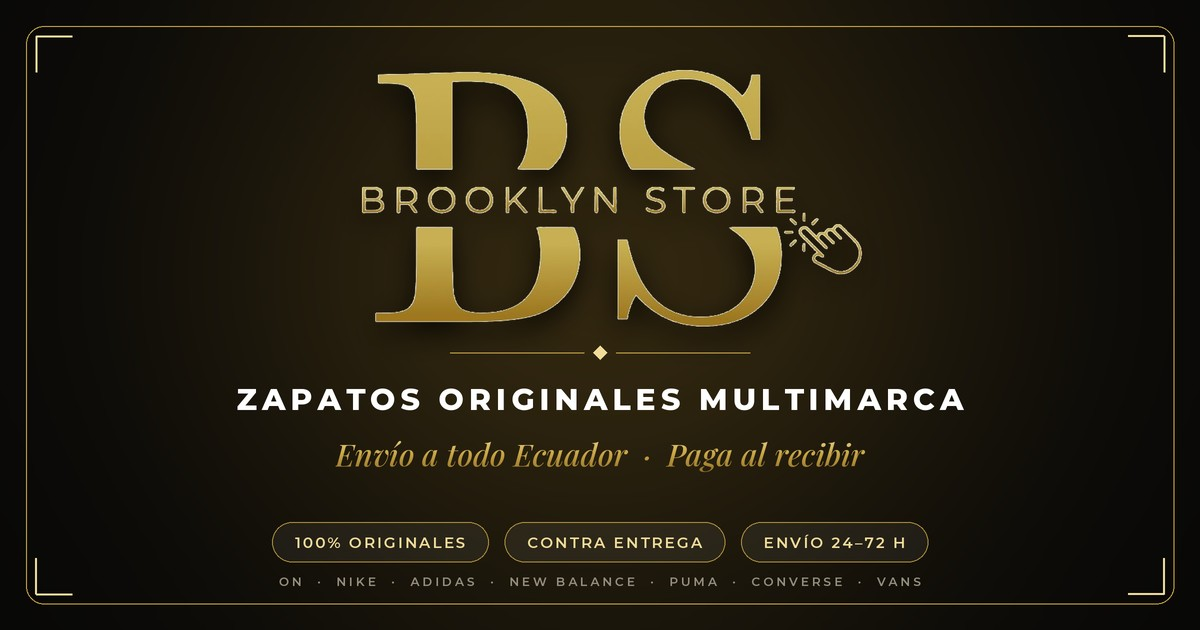
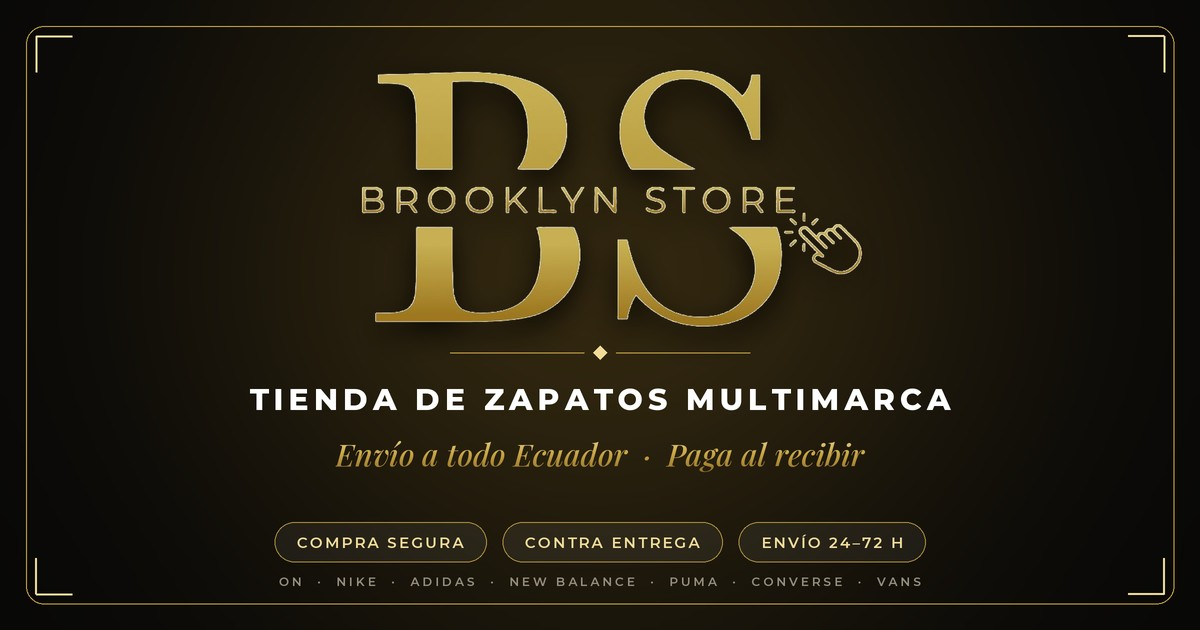
Quitar las menciones de "100% originales" en toda la tienda
Se reemplazan por "Compra segura", "Calidad garantizada" y "Garantía
Brooklyn": barra de anuncios, portada, barra de confianza, beneficios,
preguntas frecuentes, testimonios, ficha de producto, checkout, menú,
pie de página, metadatos para compartir y la imagen de vista previa.

Claude-Session: https://claude.ai/code/session_017ajxQwJ77UtqQ79Keca92T

Changed region(s): [[0.185, 0.6032, 0.8017, 0.6635], [0.2158, 0.8444, 0.7708, 0.8746]]

diff --git a/src/lib/demo-products.ts b/src/lib/demo-products.ts
@@ -17,7 +17,7 @@ const BASE = Date.UTC(2026, 8, 1);
 
 const REVIEWS = {
   sneaker: [
-    { name: 'Andrés M.', city: 'Quito', rating: 5, text: 'Originales y con su caja. Llegaron en 2 días, full recomendados.' },
+    { name: 'Andrés M.', city: 'Quito', rating: 5, text: 'Llegaron con su caja en 2 días, full recomendados.' },
     { name: 'Carla R.', city: 'Guayaquil', rating: 5, text: 'La talla exacta con la guía. Súper cómodos, de una vuelvo a comprar.' },
     { name: 'Jorge P.', city: 'Ambato', rating: 4, text: 'Chévere el modelo. Pagué contra entrega y todo salió bien.' },
   ],
@@ -35,7 +35,7 @@ export const DEMO_PRODUCTS: Product[] = [
     brand: 'On',
     gender: 'unisex',
     description:
-      'Ingeniería suiza para correr y caminar como sobre nubes. La suela CloudTec Phase® se comprime como un dominó en cada pisada para darte una transición suavecita y un impulso natural hacia adelante.\n\n• Amortiguación CloudTec Phase®\n• Capellada tejida ultraligera y transpirable\n• Diseño Swiss Engineering\n• Perfectos para correr, entrenar o el día a día\n• 100% originales, con su caja',
+      'Ingeniería suiza para correr y caminar como sobre nubes. La suela CloudTec Phase® se comprime como un dominó en cada pisada para darte una transición suavecita y un impulso natural hacia adelante.\n\n• Amortiguación CloudTec Phase®\n• Capellada tejida ultraligera y transpirable\n• Diseño Swiss Engineering\n• Perfectos para correr, entrenar o el día a día\n• Incluye su caja',
     price: 189.99,
     compareAtPrice: 219.99,
     images: ['/products/on-cloudtec-phase.jpg', '/products/on-cloudtec-phase-cutout.png'],
@@ -50,7 +50,7 @@ export const DEMO_PRODUCTS: Product[] = [
     soldCount: 634,
     reviewsCount: 187,
     reviews: [
-      { name: 'Sebastián R.', city: 'Quito', rating: 5, text: 'Lo más cómodo que he usado en mi vida, literal se siente como caminar en nubes. Originales y llegaron al día siguiente.' },
+      { name: 'Sebastián R.', city: 'Quito', rating: 5, text: 'Lo más cómodo que he usado en mi vida, literal se siente como caminar en nubes. Y llegaron al día siguiente.' },
       { name: 'Camila E.', city: 'Guayaquil', rating: 5, text: 'Full bonitos en persona, el color es elegantísimo. Los uso para el gym y para salir. De una los recomiendo.' },
       { name: 'Mateo V.', city: 'Cuenca', rating: 5, text: 'Pagué contra entrega, adelanté los $5 y todo perfecto. La talla exacta con la calculadora.' },
     ],
@@ -63,7 +63,7 @@ export const DEMO_PRODUCTS: Product[] = [
     brand: 'Nike',
     gender: 'unisex',
     description:
-      'El clásico que nunca pasa de moda. Cuero premium, suela Air para amortiguación todo el día y ese blanco total que combina con todo.\n\n• Capellada de cuero\n• Unidad Air encapsulada en el talón\n• Suela de goma con patrón de pivote\n• Incluye caja original',
+      'El clásico que nunca pasa de moda. Cuero premium, suela Air para amortiguación todo el día y ese blanco total que combina con todo.\n\n• Capellada de cuero\n• Unidad Air encapsulada en el talón\n• Suela de goma con patrón de pivote\n• Incluye su caja',
     price: 119.99,
     compareAtPrice: 149.99,
     images: [img('photo-1600269452121-4f2416e55c28'), img('photo-1549298916-b41d501d3772')],
@@ -87,7 +87,7 @@ export const DEMO_PRODUCTS: Product[] = [
     brand: 'Adidas',
     gender: 'unisex',
     description:
-      'El ícono de la cancha que se tomó la calle. Capellada de cuero suave, puntera de gamuza y la clásica suela de goma color caramelo.\n\n• Cuero y gamuza\n• Suela de goma natural\n• Horma baja clásica\n• Incluye caja original',
+      'El ícono de la cancha que se tomó la calle. Capellada de cuero suave, puntera de gamuza y la clásica suela de goma color caramelo.\n\n• Cuero y gamuza\n• Suela de goma natural\n• Horma baja clásica\n• Incluye su caja',
     price: 109.99,
     compareAtPrice: 129.99,
     images: [img('photo-1608231387042-66d1773070a5'), img('photo-1525966222134-fcfa99b8ae77')],
@@ -188,7 +188,7 @@ export const DEMO_PRODUCTS: Product[] = [
     brand: 'Converse',
     gender: 'unisex',
     description:
-      'El original. Lona resistente, puntera de goma y la estrella en el tobillo. Un básico que no puede faltar en tu clóset.\n\n• Lona de algodón\n• Plantilla acolchada OrthoLite\n• Suela vulcanizada',
+      'El clásico de siempre. Lona resistente, puntera de goma y la estrella en el tobillo. Un básico que no puede faltar en tu clóset.\n\n• Lona de algodón\n• Plantilla acolchada OrthoLite\n• Suela vulcanizada',
     price: 69.99,
     compareAtPrice: 84.99,
     images: [img('photo-1514989940723-e8e51635b782'), img('photo-1463100099107-aa0980c362e6')],

diff --git a/src/lib/settings.ts b/src/lib/settings.ts
@@ -28,7 +28,7 @@ export const DEFAULT_SETTINGS: SiteSettings = {
     text: 'Ingeniería suiza con tecnología CloudTec® que amortigua cada paso y te impulsa hacia adelante. La marca que más piden nuestros clientes en todo el Ecuador — ahora con envío a tu puerta y pago contra entrega.',
     image: '/products/on-cloudtec-phase-cutout.png',
     badge: 'Más vendida',
-    bullets: ['Ingeniería suiza', 'Amortiguación CloudTec®', 'Ultraligeros y transpirables', '100% originales'],
+    bullets: ['Ingeniería suiza', 'Amortiguación CloudTec®', 'Ultraligeros y transpirables', 'Diseño premium'],
     buttonText: 'Comprar On',
   },
   brands: ['On', 'Nike', 'Adidas', 'New Balance', 'Puma', 'Converse', 'Vans', 'Reebok', 'Asics'],
@@ -47,11 +47,11 @@ export const DEFAULT_SETTINGS: SiteSettings = {
     bodyFont: 'Montserrat',
   },
   announcementMessages: [
-    '☁ Llegó On — la marca más vendida de Brooklyn, 100% original',
+    '☁ Llegó On — la marca más vendida de Brooklyn Store',
     '🚚 Envíos a todito el Ecuador — llegamos a tu puerta',
     '💵 Pago contra entrega: solo adelantas $5 del envío y el resto al recibir',
     '🏦 Paga por transferencia o depósito — Pichincha, Guayaquil, Produbanco y más',
-    '✅ 100% originales · Garantía Brooklyn',
+    '🛡 Compra segura · Garantía Brooklyn',
     '🔄 ¿No te quedó? Cambio de talla sin complicaciones',
     '⚡ Pilas: los más vendidos se agotan ya mismo',
   ],
@@ -67,7 +67,7 @@ export const DEFAULT_SETTINGS: SiteSettings = {
     ],
     badge1: '🚚 Envío a todo Ecuador',
     badge2: '💵 Contra entrega',
-    badge3: '✅ 100% originales',
+    badge3: '🛡 Compra segura',
     button1Text: 'Comprar ahora',
     button1Url: '/catalogo',
     button2Text: 'Ver ofertas',
@@ -100,15 +100,15 @@ export const DEFAULT_SETTINGS: SiteSettings = {
     { icon: '🚚', title: 'Envío a todo Ecuador', sub: 'De Tulcán a Zamora' },
     { icon: '💵', title: 'Contra entrega', sub: 'Adelantas solo $5' },
     { icon: '🏦', title: 'Transferencia', sub: 'Envío gratis' },
-    { icon: '✅', title: '100% originales', sub: 'Garantía Brooklyn' },
+    { icon: '🛡', title: 'Compra segura', sub: 'Garantía Brooklyn' },
     { icon: '🔄', title: 'Cambio de talla', sub: 'Sin complicaciones' },
   ],
   benefitsHeading: '¿Por qué comprar en Brooklyn Store?',
   benefits: [
     {
       icon: '✅',
-      title: 'Marcas originales',
-      text: 'Trabajamos solo con producto original. Si no es original, te devolvemos tu plata. Así de claro.',
+      title: 'Calidad garantizada',
+      text: 'Revisamos cada par antes de despacharlo. Si llega con un defecto de fábrica, te lo cambiamos. Así de claro.',
     },
     {
       icon: '💵',
@@ -133,7 +133,7 @@ export const DEFAULT_SETTINGS: SiteSettings = {
       name: 'Andrés M.',
       city: 'Quito',
       review:
-        'Full recomendados, ñaño. Pedí unas Air Force por contra entrega, adelanté los $5 y me llegaron en dos días. Originales y con su caja. De una vuelvo a comprar.',
+        'Full recomendados, ñaño. Pedí unas Air Force por contra entrega, adelanté los $5 y me llegaron en dos días, con su caja y todo. De una vuelvo a comprar.',
     },
     {
       name: 'Gabriela V.',
@@ -165,9 +165,9 @@ export const DEFAULT_SETTINGS: SiteSettings = {
         'Al confirmar tu pedido te mostramos nuestras cuentas bancarias. Haces la transferencia o el depósito en ventanilla / agente, nos mandas la foto del comprobante por WhatsApp y despachamos ese mismo día. ¡Y el envío te sale gratis!',
     },
     {
-      question: '¿Los zapatos son originales?',
+      question: '¿Qué garantía tengo?',
       answer:
-        'Sí, 100% originales. Trabajamos solo con producto original y te lo garantizamos. Si no es original, te devolvemos tu dinero.',
+        'Revisamos cada par antes de enviarlo. Si tu pedido llega con un defecto de fábrica o no es lo que pediste, te lo cambiamos sin costo. Y con contra entrega pagas el resto solo cuando lo tienes en tus manos.',
     },
     {
       question: '¿Cuánto se demora en llegar?',
@@ -194,7 +194,7 @@ export const DEFAULT_SETTINGS: SiteSettings = {
   },
   footer: {
     brandText:
-      'Tienda multimarca de zapatos originales en Ecuador. Nike, Adidas, New Balance, Puma y más, con envío a todo el país.',
+      'Tienda multimarca de zapatos en Ecuador. Nike, Adidas, New Balance, Puma y más, con envío a todo el país.',
     contactText: '¿Dudas con tu talla o tu pedido? Escríbenos, te respondemos ya mismo.',
     email: 'brooklynstore.ec@gmail.com',
     address: 'Ecuador',

diff --git a/src/app/layout.tsx b/src/app/layout.tsx
@@ -3,9 +3,9 @@ import '../styles/globals.css';
 
 const STORE_NAME = process.env.NEXT_PUBLIC_STORE_NAME || 'Brooklyn Store';
 const SITE_URL = process.env.NEXT_PUBLIC_SITE_URL || 'https://brooklynstore-six.vercel.app';
-const TITLE = `${STORE_NAME} | Zapatos originales en Ecuador`;
+const TITLE = `${STORE_NAME} | Tienda de zapatos en Ecuador`;
 const DESCRIPTION =
-  'On, Nike, Adidas, New Balance y más. 100% originales, envío a todo el Ecuador y pago contra entrega: adelantas $5 y el resto al recibir.';
+  'On, Nike, Adidas, New Balance y más. Envío a todo el Ecuador y pago contra entrega: adelantas $5 y el resto al recibir.';
 
 // Imagen que aparece al compartir el link (WhatsApp, Facebook, Instagram,
 // iMessage...): 1200×630, fondo negro con el logo dorado. Se regenera con
@@ -15,7 +15,7 @@ const OG_IMAGE = {
   width: 1200,
   height: 630,
   type: 'image/jpeg',
-  alt: `${STORE_NAME} — Zapatos originales multimarca en Ecuador`,
+  alt: `${STORE_NAME} — Tienda de zapatos multimarca en Ecuador`,
 };
 
 export const metadata: Metadata = {
@@ -25,7 +25,7 @@ export const metadata: Metadata = {
     template: `%s — ${STORE_NAME}`,
   },
   description: DESCRIPTION,
-  keywords: ['zapatos Ecuador', 'zapatos originales', 'Nike Ecuador', 'Adidas Ecuador', 'tienda de zapatos Quito', 'zapatos Guayaquil', 'pago contra entrega Ecuador'],
+  keywords: ['zapatos Ecuador', 'Nike Ecuador', 'Adidas Ecuador', 'tienda de zapatos Quito', 'zapatos Guayaquil', 'pago contra entrega Ecuador'],
   openGraph: {
     title: TITLE,
     description: DESCRIPTION,

diff --git a/src/components/home/FeaturedBrandSpotlight.tsx b/src/components/home/FeaturedBrandSpotlight.tsx
@@ -37,7 +37,7 @@ export default function FeaturedBrandSpotlight() {
 
   const stats = [
     sold > 0 ? { value: `+${sold}`, label: 'Pares vendidos' } : { value: '4.9', label: 'Calificación' },
-    fromPrice ? { value: formatPrice(fromPrice), label: 'Desde' } : { value: '100%', label: 'Originales' },
+    fromPrice ? { value: formatPrice(fromPrice), label: 'Desde' } : { value: '4.9★', label: 'Calificación' },
     payments.codEnabled ? { value: formatPrice(payments.codAdvance), label: 'Y el resto al recibir' } : { value: '24-72h', label: 'Entrega' },
   ];
 
@@ -57,7 +57,7 @@ export default function FeaturedBrandSpotlight() {
               {fb.name}
             </span>
           </span>
-          {fb.image && <ShoeStage src={fb.image} alt={`${fb.name} — zapatos originales`} sizes="(max-width: 1024px) 100vw, 55vw" className="mx-auto aspect-[16/11] w-full max-w-2xl" />}
+          {fb.image && <ShoeStage src={fb.image} alt={`${fb.name} — zapatos`} sizes="(max-width: 1024px) 100vw, 55vw" className="mx-auto aspect-[16/11] w-full max-w-2xl" />}
           <StarSeal label={fb.badge} className="absolute right-0 top-0 w-24 text-[15px] sm:w-32 sm:text-[20px] lg:-right-2 lg:top-2" />
         </Link>
 

diff --git a/src/components/MobileMenu.tsx b/src/components/MobileMenu.tsx
@@ -133,7 +133,7 @@ export default function MobileMenu({ open, onClose }: { open: boolean; onClose: 
           </Link>
 
           {/* Marcas */}
-          <p className="mt-7 text-[11px] font-extrabold uppercase tracking-[0.22em] text-muted">Marcas originales</p>
+          <p className="mt-7 text-[11px] font-extrabold uppercase tracking-[0.22em] text-muted">Marcas</p>
           <div className="mt-3 grid grid-cols-3 gap-2">
             {otherBrands.map((b) => (
               <Link
@@ -204,7 +204,7 @@ export default function MobileMenu({ open, onClose }: { open: boolean; onClose: 
           >
             <WhatsAppIcon /> Asesoría gratis por WhatsApp
           </a>
-          <p className="mt-2 text-center text-[11px] font-semibold text-muted">✅ 100% originales · 🚚 Envío a todo Ecuador</p>
+          <p className="mt-2 text-center text-[11px] font-semibold text-muted">🛡 Compra segura · 🚚 Envío a todo Ecuador</p>
         </div>
       </div>
     </div>,

diff --git a/src/app/(shop)/producto/[slug]/page.tsx b/src/app/(shop)/producto/[slug]/page.tsx
@@ -185,8 +185,8 @@ export default function ProductPage() {
                 </AccordionItem>
                 <AccordionItem title="🔄 Cambios y garantía">
                   <ul className="space-y-2">
-                    <li>• Producto 100% original, garantizado.</li>
-                    <li>• Tienes 7 días para cambiar la talla (zapato sin uso y en su caja original).</li>
+                    <li>• Calidad garantizada: revisamos cada par antes de despacharlo.</li>
+                    <li>• Tienes 7 días para cambiar la talla (zapato sin uso y en su caja).</li>
                     <li>• Si llega con algún defecto de fábrica, te lo cambiamos sin costo.</li>
                   </ul>
                 </AccordionItem>

diff --git a/src/app/(shop)/producto/[slug]/layout.tsx b/src/app/(shop)/producto/[slug]/layout.tsx
@@ -57,7 +57,7 @@ export async function generateMetadata({ params }: { params: { slug: string } })
   const product = await findProduct(params.slug);
   if (!product) return {};
   const title = `${product.title} — ${formatPrice(product.price)}`;
-  const description = `${product.brand ? `${product.brand} 100% original. ` : '100% original. '}Envío a todo el Ecuador · Pago contra entrega: adelantas $5 y el resto al recibir.`;
+  const description = `${product.brand ? `${product.brand}. ` : ''}Envío a todo el Ecuador · Pago contra entrega: adelantas $5 y el resto al recibir.`;
   const images = product.image ? [{ url: product.image, width: 1200, height: 1200, alt: product.title }] : undefined;
   return {
     title,

diff --git a/src/components/Footer.tsx b/src/components/Footer.tsx
@@ -25,7 +25,7 @@ export default function Footer() {
           {[
             { icon: '🚚', title: 'Envío a todo Ecuador', text: shipping.deliveryTime },
             { icon: '💵', title: 'Contra entrega', text: `Adelantas solo ${formatPrice(payments.codAdvance)}` },
-            { icon: '✅', title: '100% originales', text: 'Garantía Brooklyn' },
+            { icon: '🛡', title: 'Compra segura', text: 'Garantía Brooklyn' },
           ].map((item) => (
             <div key={item.title} className="flex items-center justify-center gap-3 sm:justify-start">
               <span className="text-2xl">{item.icon}</span>

diff --git a/src/app/manifest.ts b/src/app/manifest.ts
@@ -4,9 +4,9 @@ const STORE_NAME = process.env.NEXT_PUBLIC_STORE_NAME || 'Brooklyn Store';
 
 export default function manifest(): MetadataRoute.Manifest {
   return {
-    name: `${STORE_NAME} — Zapatos originales en Ecuador`,
+    name: `${STORE_NAME} — Tienda de zapatos en Ecuador`,
     short_name: STORE_NAME,
-    description: 'Zapatos originales multimarca con envío a todo el Ecuador. Transferencia o pago contra entrega.',
+    description: 'Zapatos multimarca con envío a todo el Ecuador. Transferencia o pago contra entrega.',
     start_url: '/',
     display: 'standalone',
     background_color: '#FFFFFF',

diff --git a/src/components/home/BrandStrip.tsx b/src/components/home/BrandStrip.tsx
@@ -14,7 +14,7 @@ export default function BrandStrip() {
   return (
     <section className="overflow-hidden border-b border-border bg-white py-7">
       <p className="mb-4 text-center text-[11px] font-extrabold uppercase tracking-[0.25em] text-muted">
-        Las marcas que te gustan, 100% originales
+        Las marcas que más te gustan
       </p>
       <div className="group relative flex overflow-hidden">
         <div className="flex w-max animate-marquee-slow items-center gap-12 pr-12 group-hover:[animation-play-state:paused] sm:gap-16 sm:pr-16">

diff --git a/src/app/(shop)/catalogo/page.tsx b/src/app/(shop)/catalogo/page.tsx
@@ -306,7 +306,7 @@ function CatalogoContent() {
             <Link href="/" className="hover:text-primary">Inicio</Link> / <span className="text-ink">Catálogo</span>
           </nav>
           <h1 className="section-title">{title}</h1>
-          <p className="mt-2 text-sm text-muted">Zapatos 100% originales · Envío a todo el Ecuador · Paga por transferencia o contra entrega</p>
+          <p className="mt-2 text-sm text-muted">Envío a todo el Ecuador · Paga por transferencia o contra entrega</p>
         </div>
       </div>
       )}

diff --git a/src/components/checkout/CheckoutForm.tsx b/src/components/checkout/CheckoutForm.tsx
@@ -438,7 +438,7 @@ export default function CheckoutForm({
         </p>
         <div className="mt-4 flex flex-wrap items-center justify-center gap-x-4 gap-y-1 text-[11px] font-semibold text-muted">
           <span>🔒 Datos protegidos</span>
-          <span>✅ 100% originales</span>
+          <span>🛡 Garantía Brooklyn</span>
           <span>🔄 Cambio de talla</span>
         </div>
       </fieldset>
